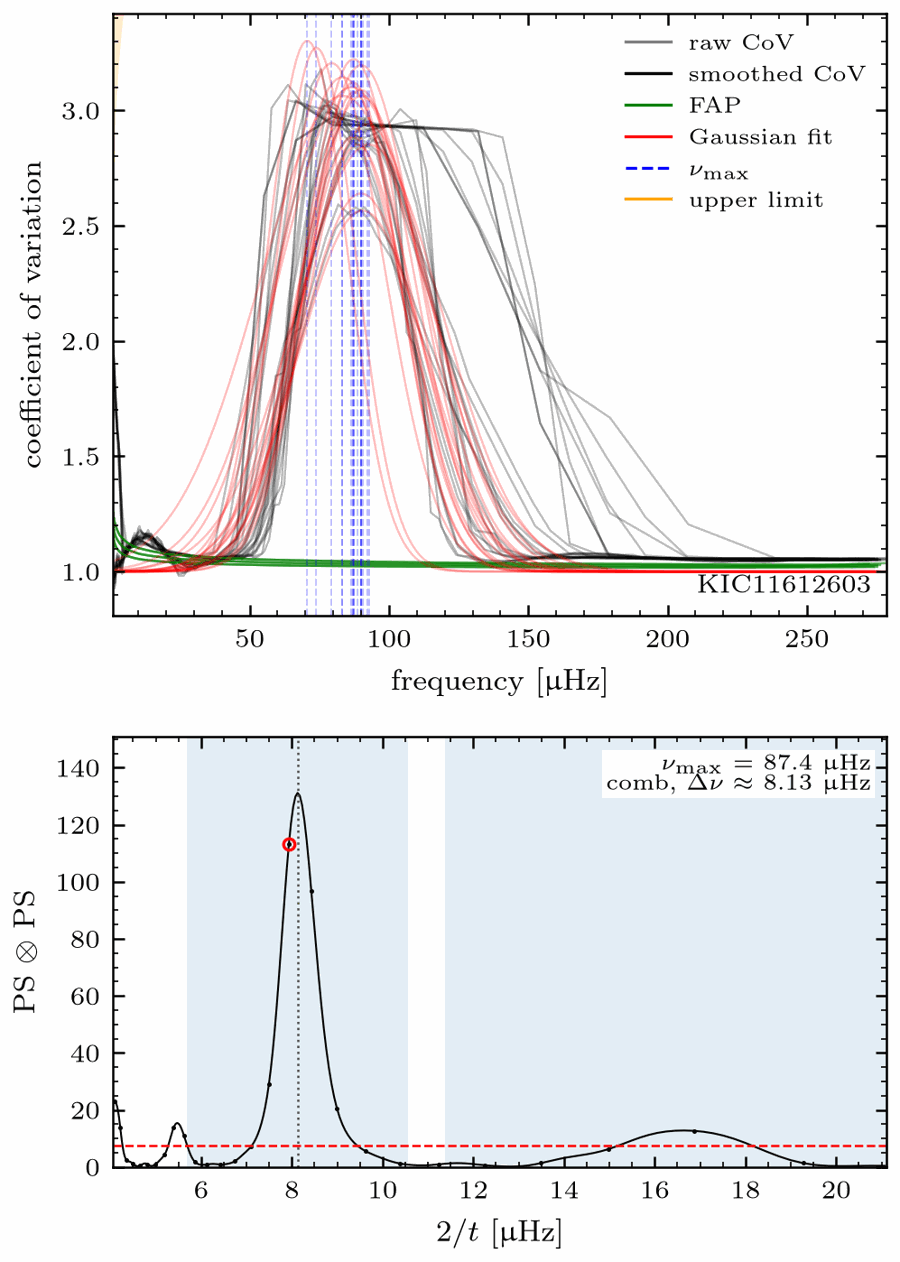
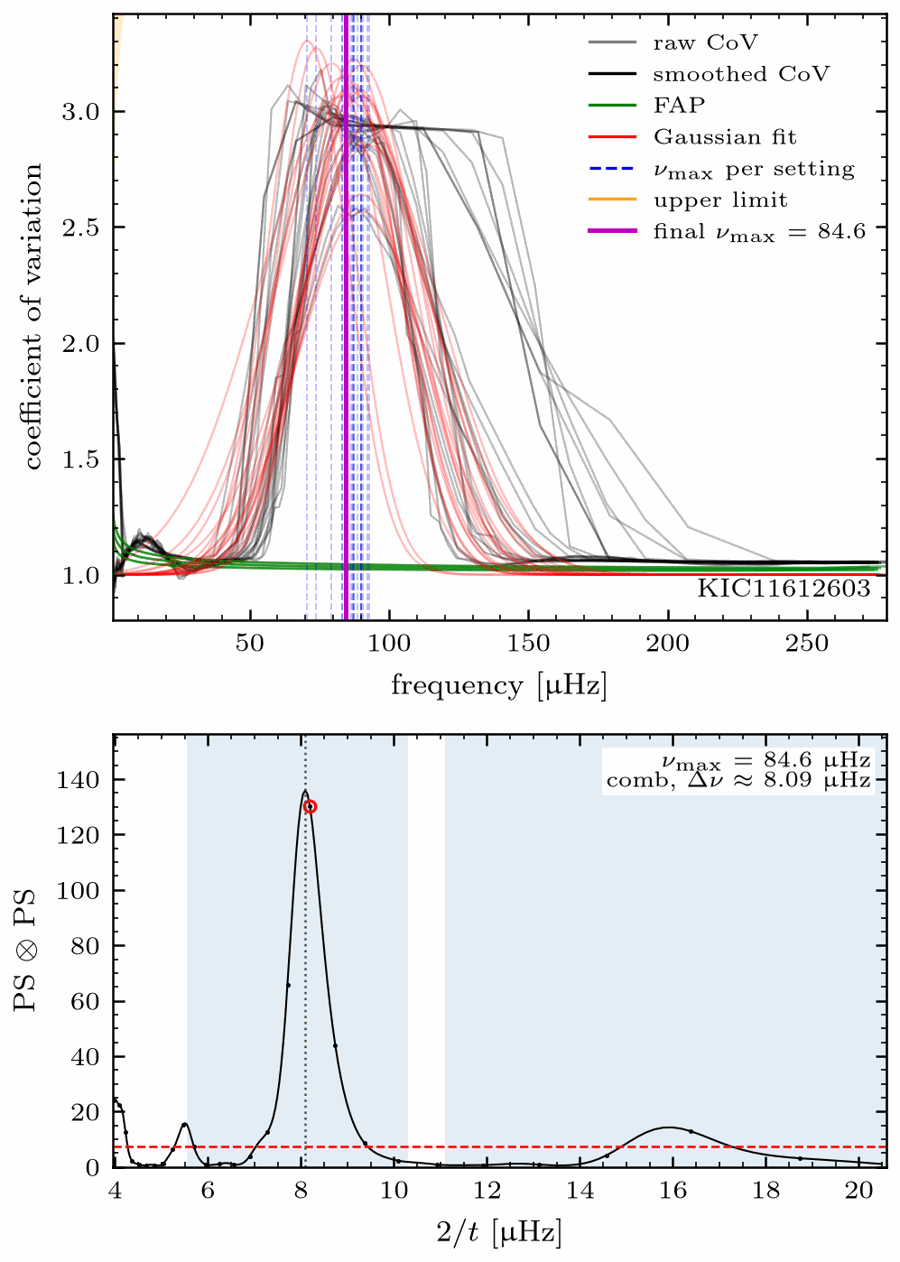
README example figures with comb scan and background correction; comb-scan figure shows the background-corrected numax

diff --git a/src/numax_proxies/pipeline.py b/src/numax_proxies/pipeline.py
@@ -327,6 +327,8 @@ class NumaxProxies:
                 from .plotting import plot_comb_scan
                 note = (f"{shown['status']}, {len(shown['scans'])} scan(s), start "
                         f"{shown['start']:.1f}" + (f", rejected {len(rejected)}" if rejected else ""))
+                if accepted and cfg.background_correction:
+                    note += f"\nbackground-corrected: {method.numax_override.n:.1f}"
                 plot_comb_scan(shown["scans"][-1], rel, spec.frequency, name, cfg,
                                self.star.target, note)
 

diff --git a/README.md b/README.md
@@ -123,13 +123,24 @@ optional checks:
 
 ## 🖼 Example figures
 
-ACF and CoV for a red giant (Kepler LC) and a main-sequence star (Kepler SC). The ACF
-figure shows the spectrum, the 2D ACF, the collapsed ACF and the PSPS comb check; the CoV
-figure shows the CoV curves and the PSPS comb check. Each line is one grid setting; dashed
-lines are the fitted ν<sub>max</sub>. In the PSPS panel the strongest peak sits at Δν.
+A red giant (Kepler LC) and a main-sequence star (Kepler SC), with `comb_scan` and
+`background_correction` on.
 
-| | ACF | CoV |
-|---|---|---|
+* **ACF**: spectrum, 2D ACF, collapsed ACF and the PSPS comb check.
+* **CoV**: CoV curves and the PSPS comb check.
+* **Comb scan** (of the ACF ν<sub>max</sub>): relative power, local 2D ACF with the two lag
+  bands, and the collapsed profile with its Gaussian fit.
+
+Each grey/black line is one grid setting; dashed blue lines are the fitted ν<sub>max</sub> per
+setting, the solid magenta line is the final ν<sub>max</sub> (comb scan, background-corrected).
+In the PSPS panel the strongest peak sits at Δν.
+
+| | ACF | CoV | Comb scan |
+|---|---|---|---|
+| **Red giant**, KIC 11612603 (ν<sub>max</sub> = 86.0 µHz) | ![RG ACF](docs/figures/RG_ACF.png) | ![RG CoV](docs/figures/RG_CoV.png) | ![RG comb scan](docs/figures/RG_CombScan.png) |
+| **Main sequence**, KIC 6671492 (ν<sub>max</sub> = 728 µHz) | ![MS ACF](docs/figures/MS_ACF.png) | ![MS CoV](docs/figures/MS_CoV.png) | ![MS comb scan](docs/figures/MS_CombScan.png) |
+
+---|---|---|
 | **Red giant**, KIC 11612603 (ν<sub>max</sub> = 86.0 µHz) | ![RG ACF](docs/figures/RG_ACF.png) | ![RG CoV](docs/figures/RG_CoV.png) |
 | **Main sequence**, KIC 6671492 (ν<sub>max</sub> = 728 µHz) | ![MS ACF](docs/figures/MS_ACF.png) | ![MS CoV](docs/figures/MS_CoV.png) |
 
